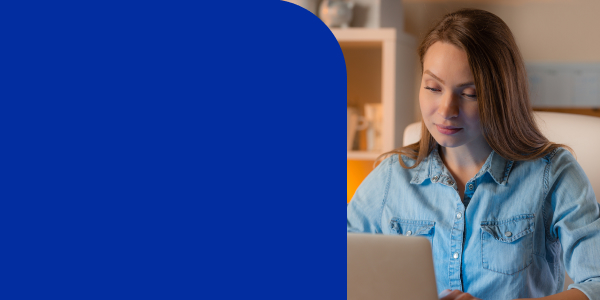
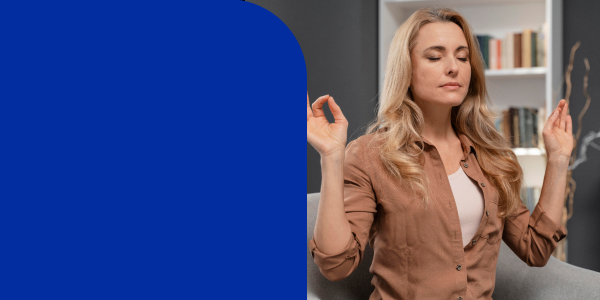
added PromoHello

diff --git a/components/PromoHello/promoHelloStyles.js b/components/PromoHello/promoHelloStyles.js
@@ -1,0 +1,62 @@
+const PromoHelloStyles = {
+  container: {
+    // marginTop: '-28px'
+    marginBottom: '10px'
+  },
+  title: {
+    marginTop: 0,
+    marginBottom: '11px',
+    marginLeft: '-12px',
+    fontSize: '15px',
+    fontWeight: 500,
+    lineHeight: '140%',
+    textAlign: 'center',
+    color: '#241C24'
+  },
+  p: {
+    marginLeft: '-12px',
+    fontSize: '11px',
+    fontWeight: 300,
+    lineHeight: '140%',
+    textAlign: 'center',
+    color: '#241C24'
+  },
+  leadersTitle: {
+    marginTop: '-12px',
+    marginLeft: '-12px',
+    fontSize: '11px',
+    fontWeight: 500,
+    lineHeight: '140%',
+    color: '#241C24'
+  },
+  fullWidth: {
+    width: '100%',
+    minWidth: '100%'
+  },
+  name: {
+    marginLeft: '-10px',
+    marginBottom: '17px',
+    display: 'inline-block',
+    width: '24%',
+    fontSize: '12px',
+    fontWeight: 300,
+    lineHeight: '140%'
+  },
+  progressBar: {
+    display: 'inline-block',
+    width: '71%',
+    maxWidth: '408px',
+    marginRight: '6px',
+    backgroundColor: '#E3E3E3'
+  },
+  rubSymbol: {
+    display: 'inline-block',
+    width: '24px',
+    paddingLeft: '8px',
+    borderRadius: '50%',
+    backgroundColor: '#3290FF',
+    color: '#fff'
+  }
+}
+
+export { PromoHelloStyles }

diff --git a/components/PromoHello/PromoHello.jsx b/components/PromoHello/PromoHello.jsx
@@ -1,0 +1,26 @@
+import { PromoHelloStyles as stls } from './promoHelloStyles'
+import { Container, Row, Column } from 'postonents'
+
+const PromoHello = () => {
+  return (
+    <Container alignment='center' style={stls.container}>
+      <Row>
+        <Column>
+          <h3 style={stls.title}>Здравствуйте!</h3>
+          <p style={stls.p}>
+            Вы интересовались обучением психологии, но возможно не нашли
+            подходящего вам графика. Недавно мы сформировали новые группы, а
+            также дополнили новыми, интересными профессиями и приглашаем вас
+            познакомиться с новыми профессиями и сроками обучения.
+          </p>
+          <p style={stls.p}>
+            На все программы психологии, действует скидка, от конечной стоимости
+            указанной на сайте. Как же ее получить ?
+          </p>
+        </Column>
+      </Row>
+    </Container>
+  )
+}
+
+export default PromoHello

diff --git a/pages/index.js b/pages/index.js
@@ -7,6 +7,7 @@ import {
 import { PostonentsProvider } from 'postonents'
 import {
   HeaderLogo,
+  PromoHello,
   EmailWrapper,
   HeaderLinks,
   LeaderboardsMonth,
@@ -68,6 +69,7 @@ const Home = ({ data }) => {
         <HeaderLogo />
         <HeaderLinks />
         <Banner />
+        <PromoHello />
         <Winner data={twoMonthsInFromAugustSumUp} />
         <LeaderboardsMonth data={twoMonthsInFromAugustSumUp} />
         <Prize data={dataFromJulySumUp} />
@@ -81,7 +83,8 @@ const Home = ({ data }) => {
 }
 
 export async function getStaticProps(context) {
-  const data = await fetchNotionData()
+  // const data = await fetchNotionData()
+  const data = []
 
   return {
     props: {

diff --git a/components/Banner/Banner.jsx b/components/Banner/Banner.jsx
@@ -13,14 +13,13 @@ const Banner = () => {
       <Row>
         <Column style={stls.column}>
           <h1 style={stls.title}>
-            Московский <br />
-            институт <br />
-            профессионального <br />
-            образования
+          Психология <br />
+          вместе с НАНО <br /> 
+          «ИПО»
           </h1>
-          <Link href={'https://ipo.msk.ru/'} style={stls.btn}>
+          {/* <Link href={'https://ipo.msk.ru/'} style={stls.btn}>
             Перейти на сайт
-          </Link>
+          </Link> */}
         </Column>
       </Row>
     </Container>

diff --git a/components/index.js b/components/index.js
@@ -6,6 +6,7 @@ import HeaderLinks from './HeaderLinks/HeaderLinks'
 import Banner from './Banner/Banner'
 import Winner from './Winner/Winner'
 import Prize from './Prize/Prize'
+import PromoHello from './PromoHello/PromoHello'
 import FooterContacts from './FooterContacts/FooterContacts'
 import FooterLinks from './FooterLinks/FooterLinks'
 import Footer from './Footer/Footer'
@@ -19,6 +20,7 @@ export {
   Banner,
   Winner,
   Prize,
+  PromoHello,
   FooterContacts,
   FooterLinks,
   Footer

diff --git a/components/HeaderLogo/HeaderLogo.jsx b/components/HeaderLogo/HeaderLogo.jsx
@@ -6,7 +6,7 @@ import {
 const HeaderLogo = () => {
   return (
     <Header
-      logo='https://res.cloudinary.com/mipinstitute/image/upload/v1629971752/temp%20ipo%20email/logo_yclf1h.png'
+      logo='https://res.cloudinary.com/npoipe/image/upload/v1632131548/logo_ixq17g.png'
       title={
         <>
           Московский институт <br /> профессионального образования

diff --git a/components/Banner/bannerStyles.js b/components/Banner/bannerStyles.js
@@ -12,7 +12,7 @@ const bannerStyles = {
   },
   column: {
     backgroundImage:
-      "url('https://res.cloudinary.com/mipinstitute/image/upload/v1629971752/temp%20ipo%20email/banner_tjogdh.jpg')",
+      "url('https://res.cloudinary.com/npoipe/image/upload/v1632131542/banner_bc3skg.jpg')",
     minWidth: '600px',
     width: '600px',
     height: '300px'
